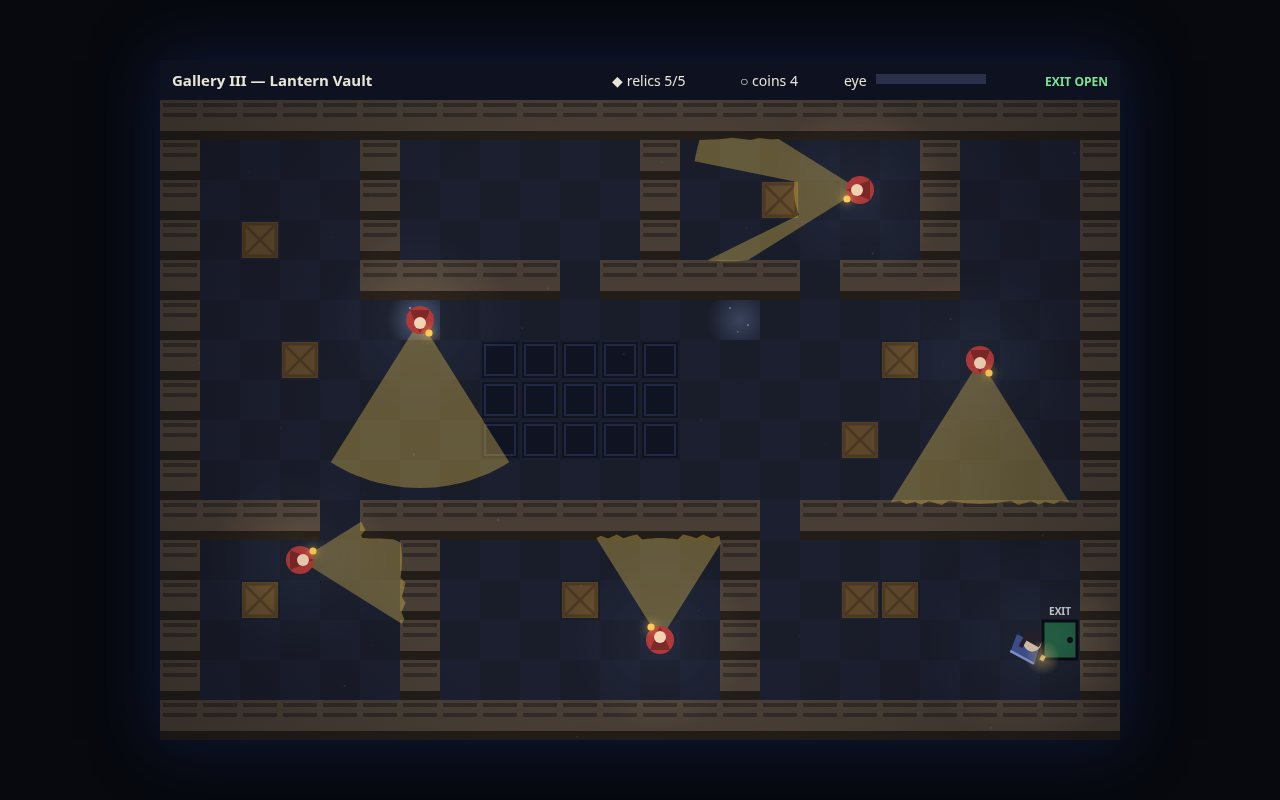
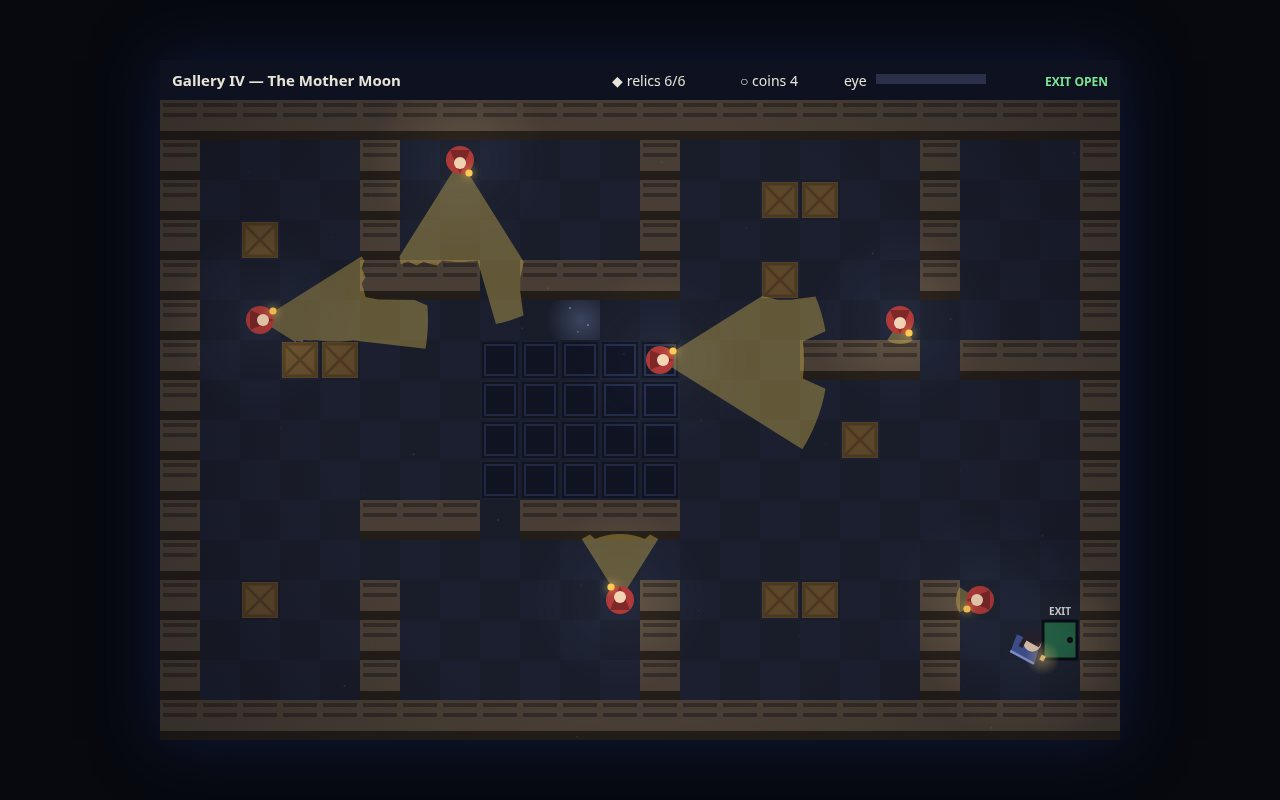
Lanternfall v4: a fourth gallery holding the Mother Moon (grand relic with halo and orbiting sparks), moonlight that rings like glass underfoot and draws guards, PHANTOM clear rating with time; lessons from the dev board's top titles, kept inside the museum's own air

diff --git a/game/src/levels.js b/game/src/levels.js
@@ -2,8 +2,14 @@
 // Legend: # wall, C crate (solid cover), . open floor, , shadow rug
 // (detection is slower while you stand on it), M moonlit floor under a
 // high window (detection is faster — the moon betrays you there),
-// P player start, E exit door, R moon relic. Guards patrol the
+// P player start, E exit door, R moon relic, * the First Moon (the
+// grand relic). Guards patrol the
 // waypoint loops listed under each map; waypoints are tile coords.
+
+// The grand relic: the Mother Moon, kept in the final gallery. It is
+// one relic among the gallery's count, but larger, brighter, and the
+// story's whole point — Lune came for this one above all.
+export const GRAND_RELIC_NAME = 'the Mother Moon';
 
 export const LEVELS = [
   {
@@ -93,6 +99,37 @@ export const LEVELS = [
       { waypoints: [[19, 6], [21, 6], [21, 9], [19, 9]] },
     ],
   },
+  {
+    name: 'Gallery IV — The Mother Moon',
+    hint: 'Six lanterns, and the Mother Moon watching over her children.',
+    coins: 4,
+    map: [
+      '########################',
+      '#P...#......#......#...#',
+      '#....#..R...#..CC..#...#',
+      '#.C..#......#......#.R.#',
+      '#....###.####..C...#...#',
+      '#.........M............#',
+      '#..CC...,,,,,...###.####',
+      '#.......,,,,,..........#',
+      '#..R....,,,,,....C.....#',
+      '#.......,,,,,..........#',
+      '#....###.####......R...#',
+      '#......................#',
+      '#.C..#......#..CC..#...#',
+      '#....#..*...#......#..E#',
+      '#....#......#..R...#...#',
+      '########################',
+    ],
+    guards: [
+      { waypoints: [[7, 1], [11, 1], [11, 3], [7, 3]] },
+      { waypoints: [[18, 5], [21, 5], [21, 8], [18, 8]] },
+      { waypoints: [[2, 5], [5, 5], [5, 8], [2, 8]] },
+      { waypoints: [[9, 11], [14, 11], [14, 13], [9, 13]] },
+      { waypoints: [[20, 11], [20, 14], [17, 14], [17, 11]] },
+      { waypoints: [[12, 5], [12, 8], [15, 8], [15, 5]] },
+    ],
+  },
 ];
 
 // Parse one level map into the world model the other modules use:
@@ -112,7 +149,8 @@ export function parseLevel(definition) {
       if (ch === 'M') moonlit.add(key(col, row));
       if (ch === 'P') playerStart = { x: col * 40 + 20, y: row * 40 + 20 };
       if (ch === 'E') exit = { x: col * 40 + 20, y: row * 40 + 20, col, row };
-      if (ch === 'R') relics.push({ x: col * 40 + 20, y: row * 40 + 20, taken: false, phase: col * 1.7 + row });
+      if (ch === 'R') relics.push({ x: col * 40 + 20, y: row * 40 + 20, taken: false, grand: false, phase: col * 1.7 + row });
+      if (ch === '*') relics.push({ x: col * 40 + 20, y: row * 40 + 20, taken: false, grand: true, phase: col * 1.7 + row });
     });
   });
   return {

diff --git a/game/src/render.js b/game/src/render.js
@@ -105,9 +105,25 @@ function drawExit(ctx, level, time) {
 function drawRelics(ctx, level, time) {
   for (const relic of level.relics) {
     if (relic.taken) continue;
+    // The Mother Moon is drawn grand: half again as large, haloed,
+    // with a slow crown of orbiting sparks — the one she came for.
+    const scale = relic.grand ? 1.55 : 1;
     const bob = Math.sin(time * 2.4 + relic.phase) * 3;
     ctx.save();
     ctx.translate(relic.x, relic.y + bob);
+    if (relic.grand) {
+      const halo = ctx.createRadialGradient(0, 0, 2, 0, 0, 30);
+      halo.addColorStop(0, 'rgba(255, 217, 77, 0.35)');
+      halo.addColorStop(1, 'rgba(255, 217, 77, 0)');
+      ctx.fillStyle = halo;
+      ctx.fillRect(-30, -30, 60, 60);
+      ctx.fillStyle = 'rgba(255, 243, 176, 0.9)';
+      for (let i = 0; i < 3; i++) {
+        const orbit = time * 0.9 + (i * Math.PI * 2) / 3;
+        ctx.fillRect(Math.cos(orbit) * 17 - 1, Math.sin(orbit) * 17 - 1, 2, 2);
+      }
+    }
+    ctx.scale(scale, scale);
     ctx.shadowColor = COLORS.relic;
     ctx.shadowBlur = 14;
     ctx.fillStyle = COLORS.relic;
@@ -392,12 +408,15 @@ function drawOverlay(ctx, game) {
     ctx.font = '18px system-ui, sans-serif';
     ctx.fillText('Press R to try this gallery again', width / 2, 344);
   } else if (game.state === 'levelclear') {
+    const seconds = Math.floor(game.levelTime);
+    const clock = Math.floor(seconds / 60) + ':' + String(seconds % 60).padStart(2, '0');
     ctx.fillStyle = '#7be495';
     ctx.font = 'bold 40px Georgia, serif';
-    ctx.fillText('GALLERY CLEARED — UNSEEN', width / 2, 300);
+    ctx.fillText(game.seenThisLevel ? 'GALLERY CLEARED' : 'GALLERY CLEARED — PHANTOM', width / 2, 292);
     ctx.fillStyle = '#e8e4d8';
     ctx.font = '18px system-ui, sans-serif';
-    ctx.fillText('Press ENTER for the next gallery', width / 2, 344);
+    ctx.fillText((game.seenThisLevel ? 'Seen, but gone like mist.' : 'Never seen. A rumour with a lantern.') + '  Time ' + clock, width / 2, 330);
+    ctx.fillText('Press ENTER for the next gallery', width / 2, 362);
   } else if (game.state === 'win') {
     ctx.fillStyle = '#ffd94d';
     ctx.font = 'bold 46px Georgia, serif';

diff --git a/game/src/main.js b/game/src/main.js
@@ -27,6 +27,8 @@ const game = {
   player: null,
   guards: [],
   elapsed: 0,
+  levelTime: 0,
+  seenThisLevel: false,
   timesSpotted: 0,
   shotMode: new URLSearchParams(window.location.search).get('shot'),
   shotLevel: Number(new URLSearchParams(window.location.search).get('level') ?? 0),
@@ -37,6 +39,8 @@ function loadLevel(index) {
   game.level = parseLevel(LEVELS[index]);
   game.player = createPlayer(game.level);
   game.guards = game.level.guardDefs.map((definition) => createGuard(definition));
+  game.levelTime = 0;
+  game.seenThisLevel = false;
   game.state = 'playing';
   status.textContent = game.level.name;
 }
@@ -48,8 +52,12 @@ let exitAnnounced = false;
 function step(dt) {
   if (game.state !== 'playing') return;
   game.elapsed += dt;
+  game.levelTime += dt;
   const events = [];
   updatePlayer(game.player, game.level, input, dt, events);
+  if (events.some((event) => event.type === 'chime')) sound.moonChime();
+  // The phantom record: was she ever truly seen this gallery?
+  if (game.guards.some((guard) => guard.state === 'chase')) game.seenThisLevel = true;
   const pickedBefore = game.level.relics.filter((relic) => relic.taken).length;
   collectRelics(game.player, game.level, () => {
     if (!exitAnnounced) {

diff --git a/game/src/player.js b/game/src/player.js
@@ -4,9 +4,10 @@
 
 import {
   PLAYER_RADIUS, PLAYER_WALK_SPEED, PLAYER_RUN_SPEED, PLAYER_SNEAK_SPEED,
-  RUN_NOISE_RADIUS, COINS_PER_LEVEL,
+  RUN_NOISE_RADIUS, MOONLIGHT_CHIME_RADIUS, COINS_PER_LEVEL,
 } from './config.js';
 import { collideWithSolids } from './vision.js';
+import { isMoonlitAt } from './levels.js';
 import { sound } from './audio.js';
 
 export function createPlayer(level) {
@@ -39,6 +40,13 @@ export function updatePlayer(player, level, input, dt, events) {
       player.stepTimer = player.mode === 'run' ? 0.24 : player.mode === 'sneak' ? 0.5 : 0.34;
       if (player.mode !== 'sneak') sound.playerStep(player.mode === 'run');
       if (player.mode === 'run') events.push({ type: 'noise', x: player.x, y: player.y, radius: RUN_NOISE_RADIUS });
+      // Moonlight rings like glass underfoot: crossing a moonlit pool
+      // while walking or running chimes faintly, and nearby guards
+      // hear it. Only sneaking crosses in silence.
+      if (player.mode !== 'sneak' && isMoonlitAt(level, player.x, player.y)) {
+        events.push({ type: 'noise', x: player.x, y: player.y, radius: MOONLIGHT_CHIME_RADIUS });
+        events.push({ type: 'chime', x: player.x, y: player.y });
+      }
     }
   }
 

diff --git a/game/src/shots.js b/game/src/shots.js
@@ -44,13 +44,15 @@ export function setupShot(game, name) {
     game.player.coins.push({ x: 150, y: 140, ring: 0.55 });
     game.player.coinsLeft = 3;
   } else if (name === 'exit') {
-    // The vault emptied: every moon taken, the exit burning green.
+    // Gallery IV emptied — even the Mother Moon is hers: the exit
+    // burns green and six lanterns sweep empty halls behind her.
     for (const relic of game.level.relics) relic.taken = true;
-    place(guards[0], 260, 220, Math.PI / 2);
-    place(guards[1], 700, 90, Math.PI);
-    place(guards[2], 140, 460, 0);
-    place(guards[3], 500, 540, -Math.PI / 2);
-    place(guards[4], 820, 260, Math.PI / 2);
+    place(guards[0], 300, 60, Math.PI / 2);
+    place(guards[1], 740, 220, Math.PI / 2);
+    place(guards[2], 100, 220, 0);
+    place(guards[3], 460, 500, -Math.PI / 2);
+    place(guards[4], 820, 500, Math.PI);
+    place(guards[5], 500, 260, 0);
     game.player.x = 868; game.player.y = 545; game.player.angle = 0.5;
   }
 }

diff --git a/game/src/audio.js b/game/src/audio.js
@@ -62,6 +62,11 @@ export const sound = {
     tone({ frequency: 1560, duration: 0.07, type: 'triangle', volume: 0.16 });
     tone({ frequency: 2090, duration: 0.12, type: 'triangle', volume: 0.12, delay: 0.05 });
   },
+  moonChime() {
+    // Moonlight ringing like glass: two high, quiet partials.
+    tone({ frequency: 2349, duration: 0.35, type: 'sine', volume: 0.045 });
+    tone({ frequency: 3136, duration: 0.22, type: 'sine', volume: 0.03, delay: 0.02 });
+  },
   relic() {
     tone({ frequency: 880, duration: 0.10, type: 'sine', volume: 0.14 });
     tone({ frequency: 1320, duration: 0.16, type: 'sine', volume: 0.12, delay: 0.07 });

diff --git a/game/src/config.js b/game/src/config.js
@@ -16,6 +16,7 @@ export const PLAYER_WALK_SPEED = 138;
 export const PLAYER_RUN_SPEED = 218;
 export const PLAYER_SNEAK_SPEED = 74;
 export const RUN_NOISE_RADIUS = 96;
+export const MOONLIGHT_CHIME_RADIUS = 74;
 
 export const GUARD_RADIUS = 14;
 export const GUARD_PATROL_SPEED = 62;

diff --git a/README.md b/README.md
@@ -9,9 +9,10 @@ An original top-down stealth game for the make.fun
 
 The night museum keeps its moon relics under lantern light. You are
 Lune, a small girl with a little lantern who has slipped in after
-closing: slip past the lantern guards, take every moon relic in three
+closing: slip past the lantern guards, take every moon relic in four
 galleries, and reach the exit unseen — a quiet, slightly eerie night
-walk through dark halls.
+walk through dark halls. In the last gallery waits the Mother Moon,
+the grand relic she came for above all.
 
 ## How to play
 
@@ -23,8 +24,13 @@ walk through dark halls.
   guard's suspicion arc; hide and it drains. Full certainty means a chase —
   break line of sight and he loses you at the last place he saw.
 - Dark rugs muffle you: detection fills far more slowly while you cross them.
-- Moonlight pools under the high windows betray you: detection fills far
-  faster while you stand in one. The prettiest floor is the most dangerous.
+- Moonlight pools under the high windows betray you twice over:
+  detection fills far faster while you stand in one, and the light rings
+  like glass underfoot — walking or running across it chimes, and nearby
+  guards come to look. Only sneaking crosses in silence. The prettiest
+  floor is the most dangerous.
+- Clear a gallery without ever being chased and it is marked PHANTOM,
+  with your time — vanish unseen, like the rumour she is.
 - The exit door stays locked red until every relic in the gallery is taken,
   then it burns green.
 
